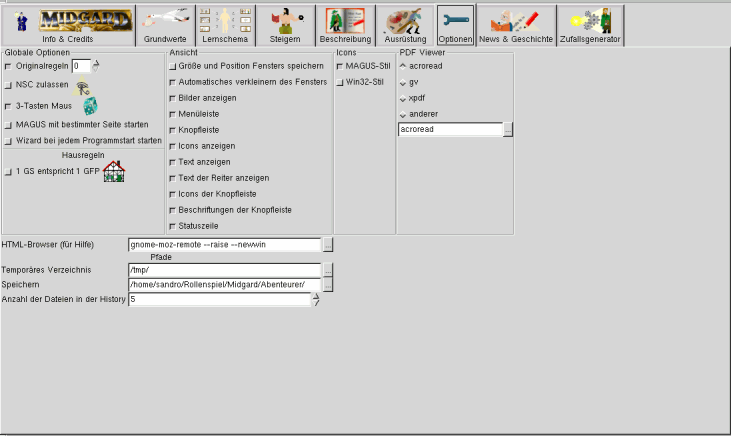
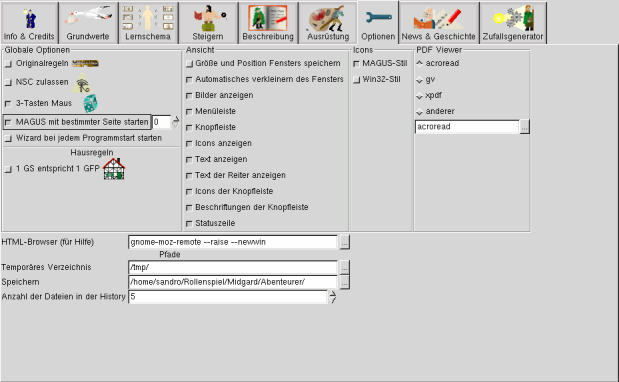
*** empty log message ***

Changed region(s): [[0.0, 0.0, 1.0, 0.8063], [0.0, 0.9791, 1.0, 1.0], [0.9822, 0.1152, 1.0, 0.144]]

diff --git a/midgard/docs/BMod_Op.html b/midgard/docs/BMod_Op.html
@@ -120,7 +120,7 @@
         <td>  </td>
         <td  class="TextBox">
         <h4>Notebookseite Optionen</h4>
-        <div align="center"><img src="image/Bedienung/module/OP-66.png" alt="Notebookseite Optionen" width="731" height="436" border="0"></div>
+        <div align="center"><img src="image/Bedienung/module/OP-66.png" alt="Notebookseite Optionen" width="619" height="382" border="0"></div>
         </td>
         <td>  </td>
       </tr>
@@ -148,7 +148,7 @@
         <td>  </td>
         <td  class="TextBox"><a name="GOP"></a>
           <h4>Globale Optionen</h4>
-          <div align="center"><img src="image/Bedienung/Elemente/OP-GlobOpt.png" alt="Globale Optionen" width=245 height=154 border=0></div><br>
+          <div align="center"><img src="image/Bedienung/Elemente/OP-GlobOpt.png" alt="Globale Optionen" width="274" height="155" border="0"></div><br>
           <table class="small">
             <tr>
               <td align="center" valign="center" class="body"><font class="tiny">Symbole</font>  </td>
@@ -182,7 +182,8 @@
             <tr>
               <td align="center" valign="center" class="body">  </td>
               <td><i>MAGUS mit bestimmter Seite starten</i>:<br>
-                MAGUS mit einer festgelegten Notebookseite starten. <font class="tiny">(default: inaktiv)</font> </td>
+                MAGUS mit einer festgelegten Notebookseite starten. Die Nummerierung erfolgt
+                von links nach rechts, 1 entspricht der Seite <i>generieren</i> <font class="tiny">(default: inaktiv)</font> </td>
               <td align="center" valign="center" class="body">  </td>
             </tr>
             <tr>
